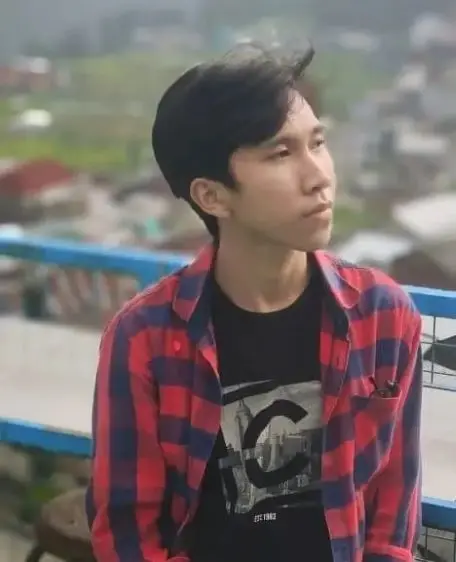
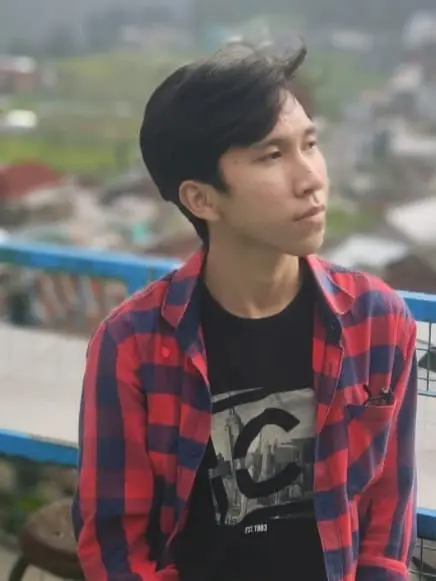
add: +library animasi yaitu framer-motion

diff --git a/src/Components/AboutComp.jsx b/src/Components/AboutComp.jsx
@@ -5,9 +5,12 @@ import fauzan from "../assets/IMG/img-about/fauzan.webp"
 import yosafat from "../assets/IMG/img-about/yosafat.webp"
 import Aos from "aos";
 import "aos/dist/aos.css";
-import { useEffect, useState } from "react";
+import { motion,useScroll, useTransform } from 'framer-motion'
+import { useEffect} from "react";
 
 const AboutComp = () => {
+  const { scrollYProgress } = useScroll()
+  const scale = useTransform(scrollYProgress, [0, 1], [0.2, 1]);
   useEffect(() => {
     Aos.init({
       duration: 2000,
@@ -47,16 +50,22 @@ const AboutComp = () => {
         <Container className="d-flex align-items-center">
           <Row className="d-flex align-items-center row-cols-lg-3 row-cols-md-2 row-cols-sm-1 gx-5">
             <Col className="mx-auto mt-3 about-us-content">
-              <img src={abiyan} alt="" />
-                  <p><span>Hello!</span> Nama saya <span>Abiyan Samawi Alkindi</span> saya adalah seorang siswa dari <span>SMAN 11 Surabaya.</span></p>
+              <div>
+              <motion.img style={{scale}} src={abiyan} alt="" />
+                <p><span>Hello!</span> Nama saya <span>Abiyan Samawi Alkindi</span> saya adalah seorang siswa dari <span>SMAN 11 Surabaya</span>, dan saya adalah seorang <span>Web Developer</span></p>
+                </div>
             </Col>
             <Col className="mx-auto mt-3 about-us-content">
-              <img src={fauzan} alt="" />
+              <div>
+              <motion.img style={{scale}}  src={fauzan} alt="" />
                 <p><span>Hello!</span> Nama saya <span>Ahmad Fauzan</span> saya adalah seorang siswa dari <span>SMAN 11 Surabaya</span>, dan saya adalah seorang <span>Web Developer.</span></p>
+                </div>
             </Col>
             <Col className="mx-auto mt-3 about-us-content">
-              <img src={yosafat} alt="" />
-               <p><span>Hello!</span> nama saya <span>Yosafat Archie Rismaharjo Sarlan</span> saya adalah seorang siswa dari <span>SMAN 11 Surabaya</span>, saya adalah seorang <span>Web Developer.</span></p>
+              <div>
+              <motion.img style={{scale}}  src={yosafat} alt="" />
+                <p><span>Hello!</span> nama saya <span>Yosafat Archie Rismaharjo Sarlan</span> saya adalah seorang siswa dari <span>SMAN 11 Surabaya</span>, saya adalah seorang <span>Web Developer.</span></p>
+                </div>
             </Col>
           </Row>
         </Container>

diff --git a/src/App.css b/src/App.css
@@ -161,6 +161,7 @@ body {
 
 .about-us span {
  color: coral;
+  font-weight: 700;
 }
 
 .about-us img {
@@ -179,10 +180,6 @@ body {
   align-items: center;
   justify-content: center;
   margin: 1rem 0;
-}
-
-.about-us .about-us-content span {
-  font-weight: 700;
 }
 
 @media screen and (max-width: 1366px) {
